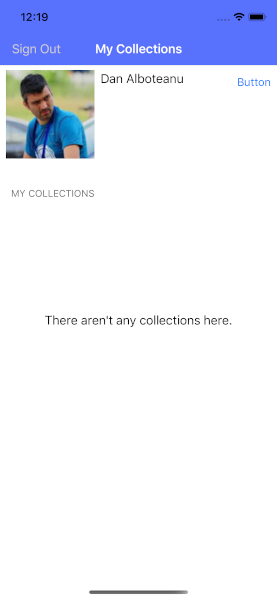
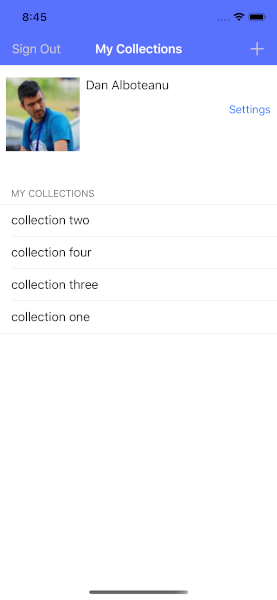
minimal viable product complete

diff --git a/Collections/Collection/CollectionTableViewController.swift b/Collections/Collection/CollectionTableViewController.swift
@@ -7,7 +7,7 @@ import SDWebImage
 let urlTermsOfService = URL(string: "https://sunshine-f15bf.firebaseapp.com/")!
 let urlPrivacyPolicy = URL(string: "https://sunshine-f15bf.firebaseapp.com/")!
 
-class CollectionsViewController: UIViewController {
+class CollectionTableViewController: UIViewController {
     
     /// The current user displayed by the controller. Setting this property has side effects.
     fileprivate var user: User? = nil {
@@ -30,11 +30,10 @@ class CollectionsViewController: UIViewController {
         return label
     }()
     
-    private var dataSource: CollectionTableViewDataSource? = nil
+    fileprivate var dataSource: CollectionTableViewDataSource? = nil
     private var authListener: AuthStateDidChangeListenerHandle? = nil
     
     @IBOutlet private var tableView: UITableView!
-    
     @IBOutlet private var profileImageView: UIImageView!
     @IBOutlet private var usernameLabel: UILabel!
     @IBOutlet private var settingsButton: UIButton!
@@ -43,12 +42,12 @@ class CollectionsViewController: UIViewController {
     @IBOutlet var signOutButton: UIBarButtonItem!
     @IBOutlet var addCollectionButton: UIBarButtonItem!
     
-    
     override func viewDidLoad() {
         super.viewDidLoad()
         
         tableBackgroundLabel.text = "There aren't any collections here."
         tableView.backgroundView = tableBackgroundLabel
+    
     }
     
     override func viewWillAppear(_ animated: Bool) {
@@ -57,10 +56,10 @@ class CollectionsViewController: UIViewController {
         Auth.auth().addStateDidChangeListener { (auth, newUser) in
             self.setUser(firebaseUser: newUser)
         }
+              tableView.delegate = self
     }
     
     @IBAction func didTapSignInButton(_ sender: Any) {
-        print("sign in tapped")
         presentLoginController()
     }
     
@@ -108,7 +107,7 @@ class CollectionsViewController: UIViewController {
     }
     
     fileprivate func populateCollections(forUser user: User) {
-        let query = Firestore.firestore().collections.whereField("userInfo.userID", isEqualTo: user.userID)
+        let query = Firestore.firestore().collections.whereField("ownerID", isEqualTo: user.userID)
         dataSource = CollectionTableViewDataSource(query: query) { [unowned self] (changes) in
             self.tableView.reloadData()
             guard let dataSource = self.dataSource else { return }
@@ -158,5 +157,17 @@ class CollectionsViewController: UIViewController {
        self.navigationController?.pushViewController(controller, animated: true)
      }
     
+}
+
+// MARK: - UITableViewDelegate
+
+   extension CollectionTableViewController: UITableViewDelegate {
+
+     func tableView(_ tableView: UITableView, didSelectRowAt indexPath: IndexPath) {
+       tableView.deselectRow(at: indexPath, animated: true)
+        guard let collection = dataSource?[indexPath.row] else { return }
+       let controller = ItemTableViewController.fromStoryboard(collection: collection)
+       self.navigationController?.pushViewController(controller, animated: true)
+     }
 }
 

diff --git a/Collections/Item/ItemTableViewController.swift b/Collections/Item/ItemTableViewController.swift
@@ -10,7 +10,7 @@ class ItemTableViewController: UIViewController, UITableViewDelegate{
     
     private var collection: Collection!
     private var user: User!
-    fileprivate var dataSource: ItemsTableViewDataSource!
+    fileprivate var dataSource: ItemTableViewDataSource!
     
     // MARK: Outlets
     
@@ -34,7 +34,7 @@ class ItemTableViewController: UIViewController, UITableViewDelegate{
       // or present a login flow if the user is unexpectedly nil.
      
         let query = Firestore.firestore().items(forCollection: collection.documentID)
-      dataSource = ItemsTableViewDataSource(query: query) { (changes) in
+      dataSource = ItemTableViewDataSource(query: query) { (changes) in
         self.tableView.reloadData()
         self.title = self.collection.name
       }

diff --git a/Collections/Commons/ItemTableViewDataSource.swift b/Collections/Commons/ItemTableViewDataSource.swift
@@ -5,7 +5,7 @@ import FirebaseFirestore
 /// A class that populates a table view using RestaurantTableViewCell cells
 /// with restaurant data from a Firestore query. Consumers should update the
 /// table view with new data from Firestore in the updateHandler closure.
-@objc class ItemsTableViewDataSource: NSObject, UITableViewDataSource {
+@objc class ItemTableViewDataSource: NSObject, UITableViewDataSource {
 
   private let items: LocalCollection<Item>
 

diff --git a/Collections/Commons/CollectionTableViewDataSource.swift b/Collections/Commons/CollectionTableViewDataSource.swift
@@ -44,8 +44,6 @@ import FirebaseFirestore
     public var count: Int {
       return collections.count
     }
-
-    // MARK: - UITableViewDataSource
     
     // MARK: - UITableViewDataSource
     func tableView(_ tableView: UITableView, titleForHeaderInSection section: Int) -> String? {

diff --git a/README.md b/README.md
@@ -1,7 +1,11 @@
-Collections application for iOS
+Collections application for iOS, powered by Cloud Firestore on iOS with Swift.
 
-![screenshot iPhone login](screenshots/screen1.png)
+Credit to the ![Google Cloud Firestore IOS Codelab] (https://codelabs.developers.google.com/codelabs/firebase-cloud-firestore-workshop-swift/index.html?index=..%2F..index#0)
 
-![screenshot iPhone collections](screenshots/screen2.png)
+![screenshot iPhone login methods](screenshots/screen0.png)
 
-![screenshot iPhone items](screenshots/screen3.png)
+![screenshot iPhone login collections](screenshots/screen1.png)
+
+![screenshot iPhone items](screenshots/screen2.png)
+
+![screenshot iPhone item details](screenshots/screen3.png)
